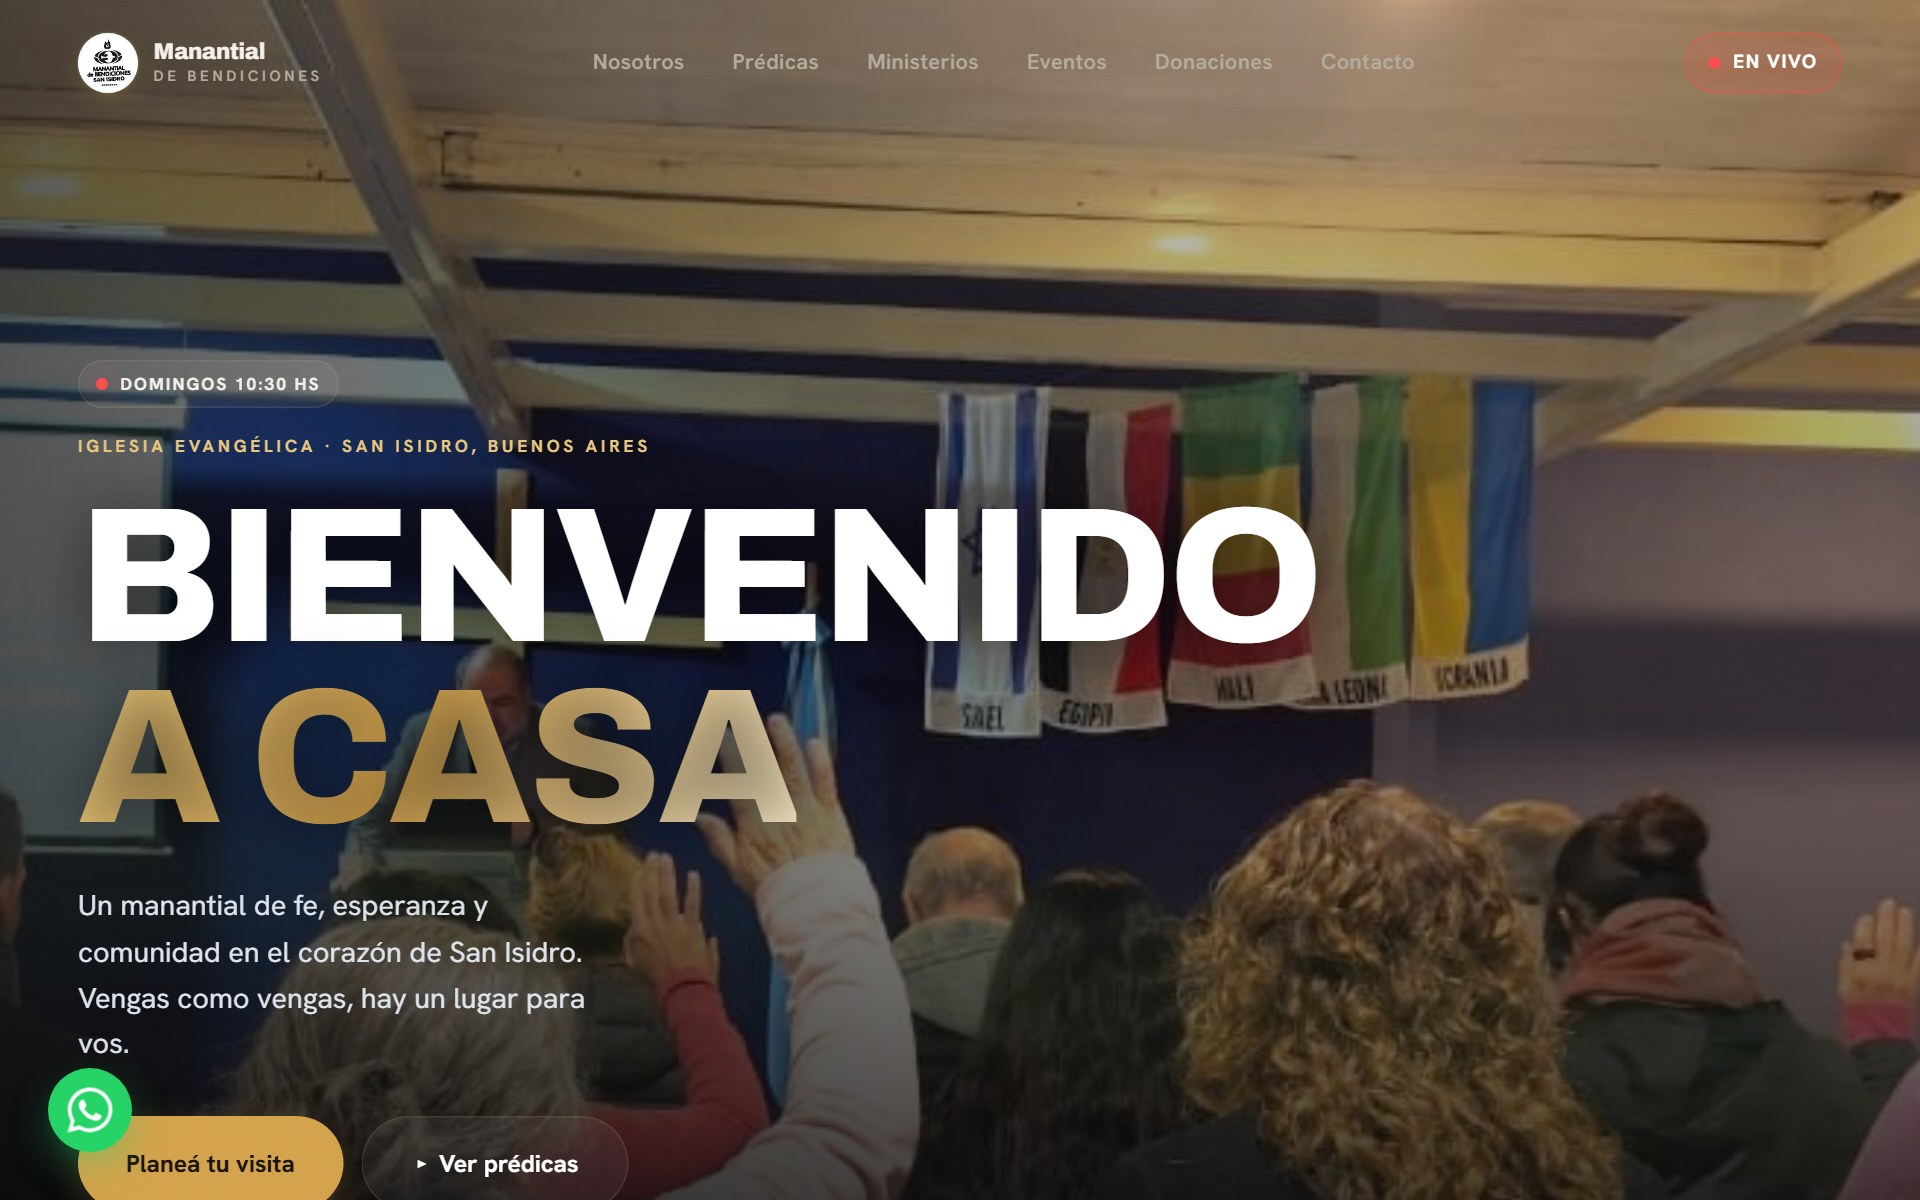
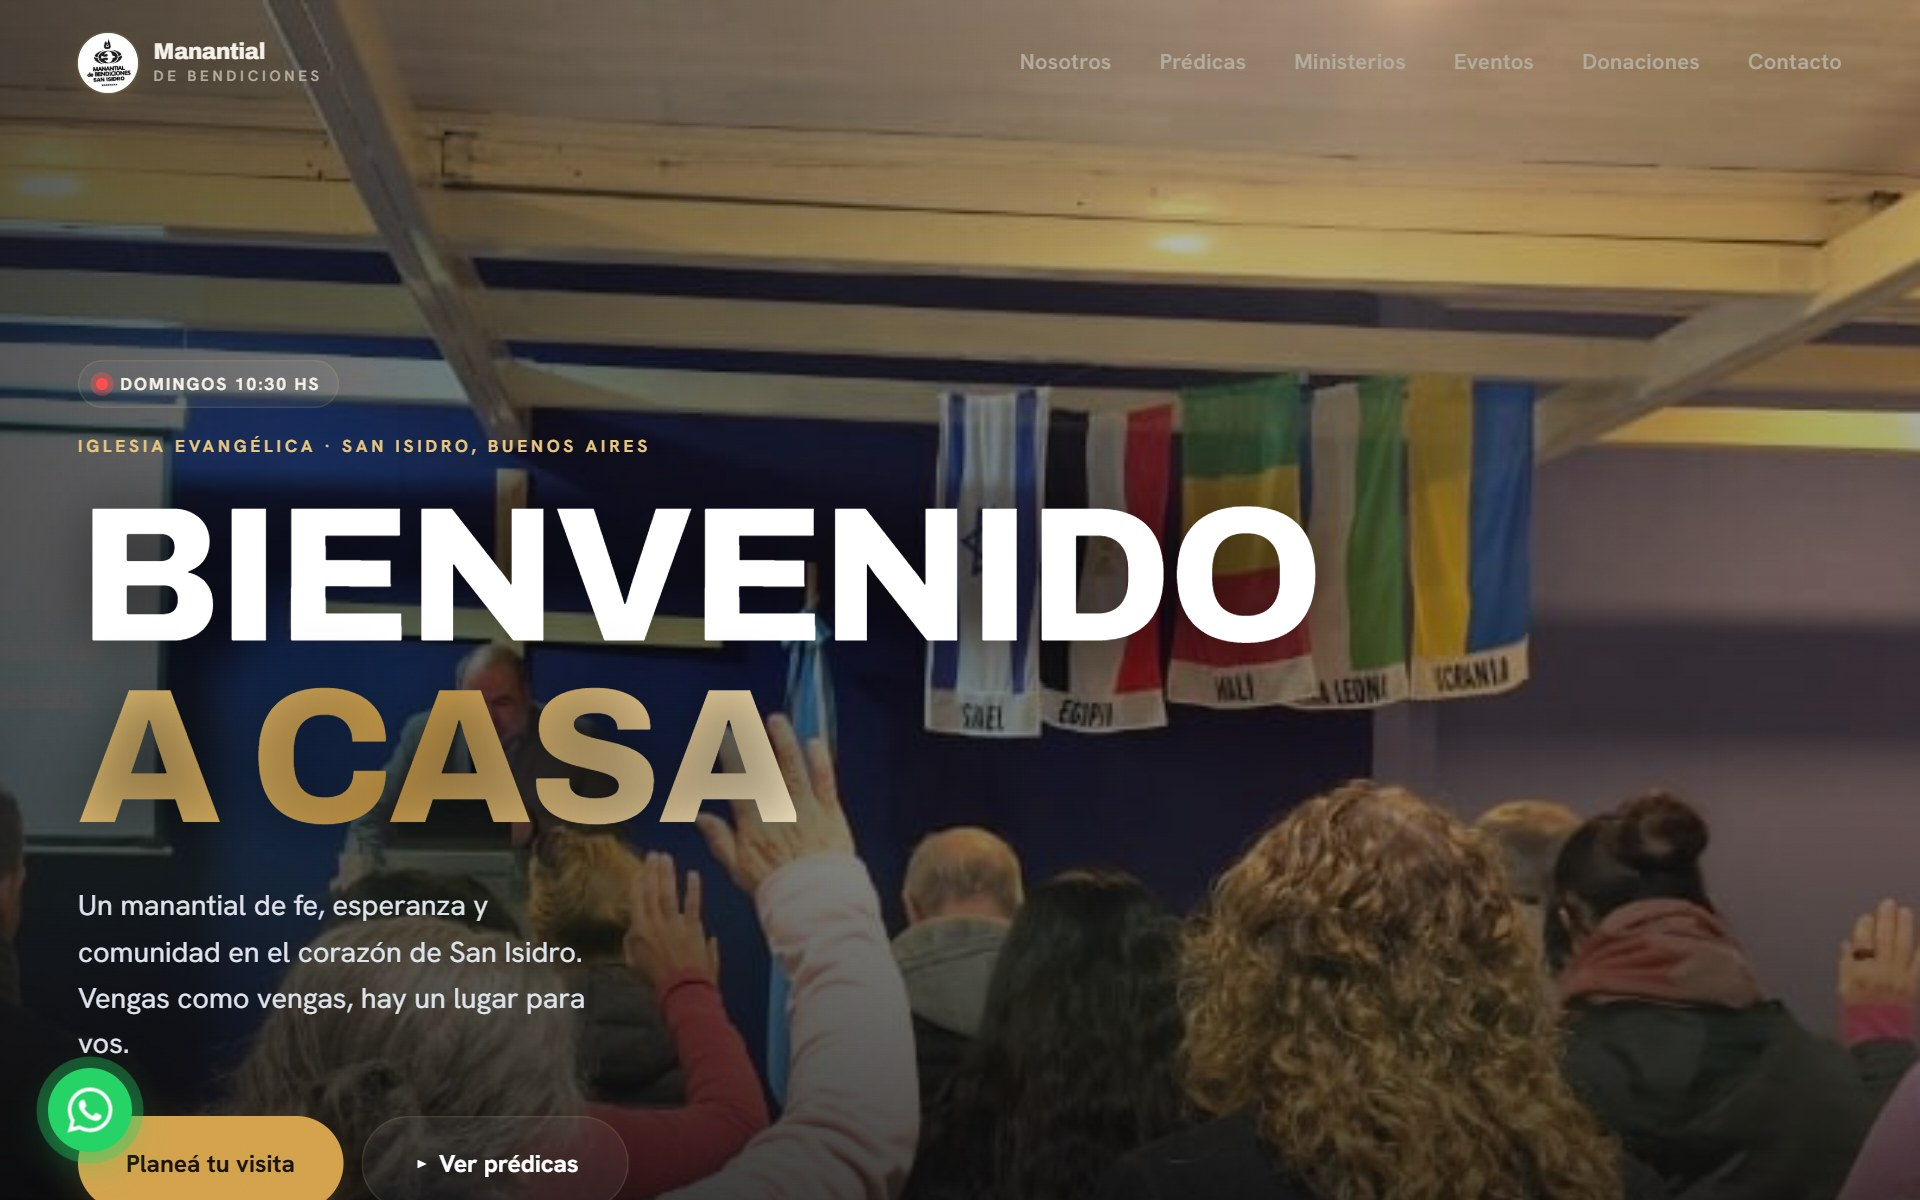
Portfolio: Manantial terminado y nuevo trabajo Electro Red
- Manantial de Bendiciones (San Isidro) pasa de "en desarrollo" al portfolio (08); se quita la sección WIP
- Electro Red (Dunamis) agregado como 07, con funciones y dominio propio
- Ambos sumados al carrusel mobile y a los scripts de captura
- Contadores de proyectos actualizados a 8

diff --git a/index.html b/index.html
@@ -2666,7 +2666,7 @@
         <strong>2 cupos disponibles</strong>&nbsp;este mes — entrega en 1 semana
       </p>
       <div class="trust">
-        <div class="trust-item"><span class="trust-num"><em>6</em></span><span class="trust-lbl">Proyectos online</span></div>
+        <div class="trust-item"><span class="trust-num"><em>8</em></span><span class="trust-lbl">Proyectos online</span></div>
         <div class="trust-item"><span class="trust-num"><em>1</em>sem</span><span class="trust-lbl">Tu web lista</span></div>
         <div class="trust-item"><span class="trust-num"><em>100%</em></span><span class="trust-lbl">A medida</span></div>
       </div>
@@ -2705,7 +2705,7 @@
         </p>
         <div class="ig-stats">
           <div class="ig-stat">
-            <span class="ig-num">5</span>
+            <span class="ig-num">8</span>
             <span class="ig-lbl">Proyectos</span>
           </div>
           <div class="ig-stat">
@@ -3298,42 +3298,69 @@
         <div class="p-card-glow"></div>
       </div>
 
-    </div>
-  </div>
-</section>
-
-<!-- EN CURSO -->
-<section class="wip-sec">
-  <div class="wip-inner">
-    <div class="wip-head" data-reveal>
-      <div class="wip-live-pill"><span class="wip-live-dot"></span>Ahora mismo</div>
-      <h2 class="wip-h2">Un proyecto que estoy<br>desarrollando hoy</h2>
-      <p class="wip-sub">Un cliente confió en mí esta semana. Su sitio ya está casi listo — ¿el tuyo es el próximo?</p>
-    </div>
-    <div class="wip-grid">
-
-      <!-- Manantial de Bendiciones -->
-      <div class="wip-card" data-card>
-        <div class="wip-card-header">
-          <div class="wip-badge"><span class="wip-dot"></span>En desarrollo</div>
-          <span class="wip-type">Sitio Web</span>
+      <!-- 07 Electro Red (Dunamis) -->
+      <div class="p-card" data-card>
+        <div class="p-num">07</div>
+        <div class="p-chrome">
+          <span class="p-dot p-dot-r"></span>
+          <span class="p-dot p-dot-y"></span>
+          <span class="p-dot p-dot-g"></span>
+          <div class="p-urlbar">electroredcuotas.com.ar</div>
         </div>
-        <div class="wip-screenshot">
-          <img src="assets/screenshots/manantial-de-bendiciones.jpg" alt="Manantial de Bendiciones — en desarrollo" loading="lazy">
-          <div class="wip-screenshot-overlay"></div>
+        <div class="p-preview">
+          <img src="assets/screenshots/electro-red.jpg" alt="Electro Red — preview del sitio" loading="lazy">
+          <a href="https://electroredcuotas.com.ar/" target="_blank" rel="noopener noreferrer" class="p-preview-link"><span>Abrir sitio ↗</span></a>
         </div>
-        <div class="wip-card-body">
-          <h3 class="wip-name">Manantial de Bendiciones</h3>
-          <p class="wip-desc">Sitio web para iglesia evangélica — horarios, ministerios y contacto para que la comunidad los encuentre.</p>
-          <div class="wip-progress">
-            <div class="wip-progress-bar" style="--pct:95%"></div>
-            <span class="wip-progress-lbl">95% completado</span>
+        <div class="p-info">
+          <div class="p-tags">
+            <span class="p-tag">Catálogo Online</span>
+            <span class="p-tag">Panel Propio</span>
+            <span class="p-tag">Ventas en Cuotas</span>
           </div>
+          <h3 class="p-name">Electro Red</h3>
+          <p class="p-desc">Catálogo de electrodomésticos en cuotas semanales, con dominio propio y un panel para que el dueño y sus promotores carguen productos y precios.</p>
+          <button class="p-expand-btn" onclick="toggleFeatures(this)" aria-expanded="false">Qué funciones tiene ↓</button>
+          <div class="p-features-panel" hidden>
+            <ul class="p-feat-list">
+              <li>🗂 <strong>Catálogo por categorías</strong> — cocina, hogar, climatización, celulares y más, con el precio por semana bien a la vista</li>
+              <li>🛠 <strong>Panel del dueño</strong> — carga productos, fotos y planes de cuotas sin depender de nadie</li>
+              <li>🔗 <strong>Un link por producto</strong> — listo para compartir en las historias de Instagram</li>
+              <li>💬 <strong>"Lo quiero" directo a WhatsApp</strong> con el producto ya elegido</li>
+              <li>🌐 <strong>Dominio propio .com.ar</strong> — una marca seria, no un link prestado</li>
+            </ul>
+          </div>
+          <a href="https://electroredcuotas.com.ar/" target="_blank" rel="noopener noreferrer" class="p-link">Ver sitio →</a>
         </div>
+        <div class="p-card-glow"></div>
+      </div>
+
+      <!-- 08 Manantial de Bendiciones -->
+      <div class="p-card" data-card>
+        <div class="p-num">08</div>
+        <div class="p-chrome">
+          <span class="p-dot p-dot-r"></span>
+          <span class="p-dot p-dot-y"></span>
+          <span class="p-dot p-dot-g"></span>
+          <div class="p-urlbar">manantial-de-bendiciones.workers.dev</div>
+        </div>
+        <div class="p-preview">
+          <img src="assets/screenshots/manantial-de-bendiciones.jpg" alt="Manantial de Bendiciones — preview del sitio" loading="lazy">
+          <a href="https://manantial-de-bendiciones.joelpgaming2023.workers.dev/" target="_blank" rel="noopener noreferrer" class="p-preview-link"><span>Abrir sitio ↗</span></a>
+        </div>
+        <div class="p-info">
+          <div class="p-tags">
+            <span class="p-tag">Sitio Web</span>
+            <span class="p-tag">Iglesia</span>
+            <span class="p-tag">SEO Local</span>
+          </div>
+          <h3 class="p-name">Manantial de Bendiciones</h3>
+          <p class="p-desc">Sitio web para iglesia evangélica en San Isidro. Horarios, prédicas, ministerios, eventos y donaciones para que la comunidad los encuentre y se acerque.</p>
+          <a href="https://manantial-de-bendiciones.joelpgaming2023.workers.dev/" target="_blank" rel="noopener noreferrer" class="p-link">Ver sitio →</a>
+        </div>
+        <div class="p-card-glow"></div>
       </div>
 
     </div>
-
   </div>
 </section>
 
@@ -3403,6 +3430,24 @@
             <span class="mcap-name">MF Trámites</span>
             <span class="mcap-tag">SITIO WEB · GESTORÍA</span>
             <a href="https://joelppraderio2023.github.io/mf-tramites-vehiculares/" target="_blank" rel="noopener noreferrer">Ver en vivo →</a>
+          </div>
+        </div>
+
+        <div class="mslide">
+          <div class="mphone"><img src="assets/screenshots/mobile/electro-red.jpg" alt="Electro Red en celular" loading="lazy"></div>
+          <div class="mcap">
+            <span class="mcap-name">Electro Red</span>
+            <span class="mcap-tag">CATÁLOGO · CUOTAS</span>
+            <a href="https://electroredcuotas.com.ar/" target="_blank" rel="noopener noreferrer">Ver en vivo →</a>
+          </div>
+        </div>
+
+        <div class="mslide">
+          <div class="mphone"><img src="assets/screenshots/mobile/manantial-de-bendiciones.jpg" alt="Manantial de Bendiciones en celular" loading="lazy"></div>
+          <div class="mcap">
+            <span class="mcap-name">Manantial de Bendiciones</span>
+            <span class="mcap-tag">SITIO WEB · IGLESIA</span>
+            <a href="https://manantial-de-bendiciones.joelpgaming2023.workers.dev/" target="_blank" rel="noopener noreferrer">Ver en vivo →</a>
           </div>
         </div>
 

diff --git a/take-mobile-shots.js b/take-mobile-shots.js
@@ -9,6 +9,8 @@ const SITES = [
   { slug: 'la-buena-semilla',  url: 'https://la-buenasemilla.netlify.app/' },
   { slug: 'owen-house',        url: 'https://owen-house-criadero.pages.dev/' },
   { slug: 'ayelen',            url: 'https://ayelen-productos-capilares.pages.dev/' },
+  { slug: 'electro-red',       url: 'https://electroredcuotas.com.ar/' },
+  { slug: 'manantial-de-bendiciones', url: 'https://manantial-de-bendiciones.joelpgaming2023.workers.dev/' },
 ];
 
 (async () => {

diff --git a/take-screenshots.js b/take-screenshots.js
@@ -46,6 +46,12 @@ const SITES = [
     width: 1280,
     waitFor: 3000,
   },
+  {
+    name: 'electro-red',
+    url: 'https://electroredcuotas.com.ar/',
+    width: 1280,
+    waitFor: 3000,
+  },
 ];
 
 const OUT = path.join(__dirname, 'assets', 'screenshots');
